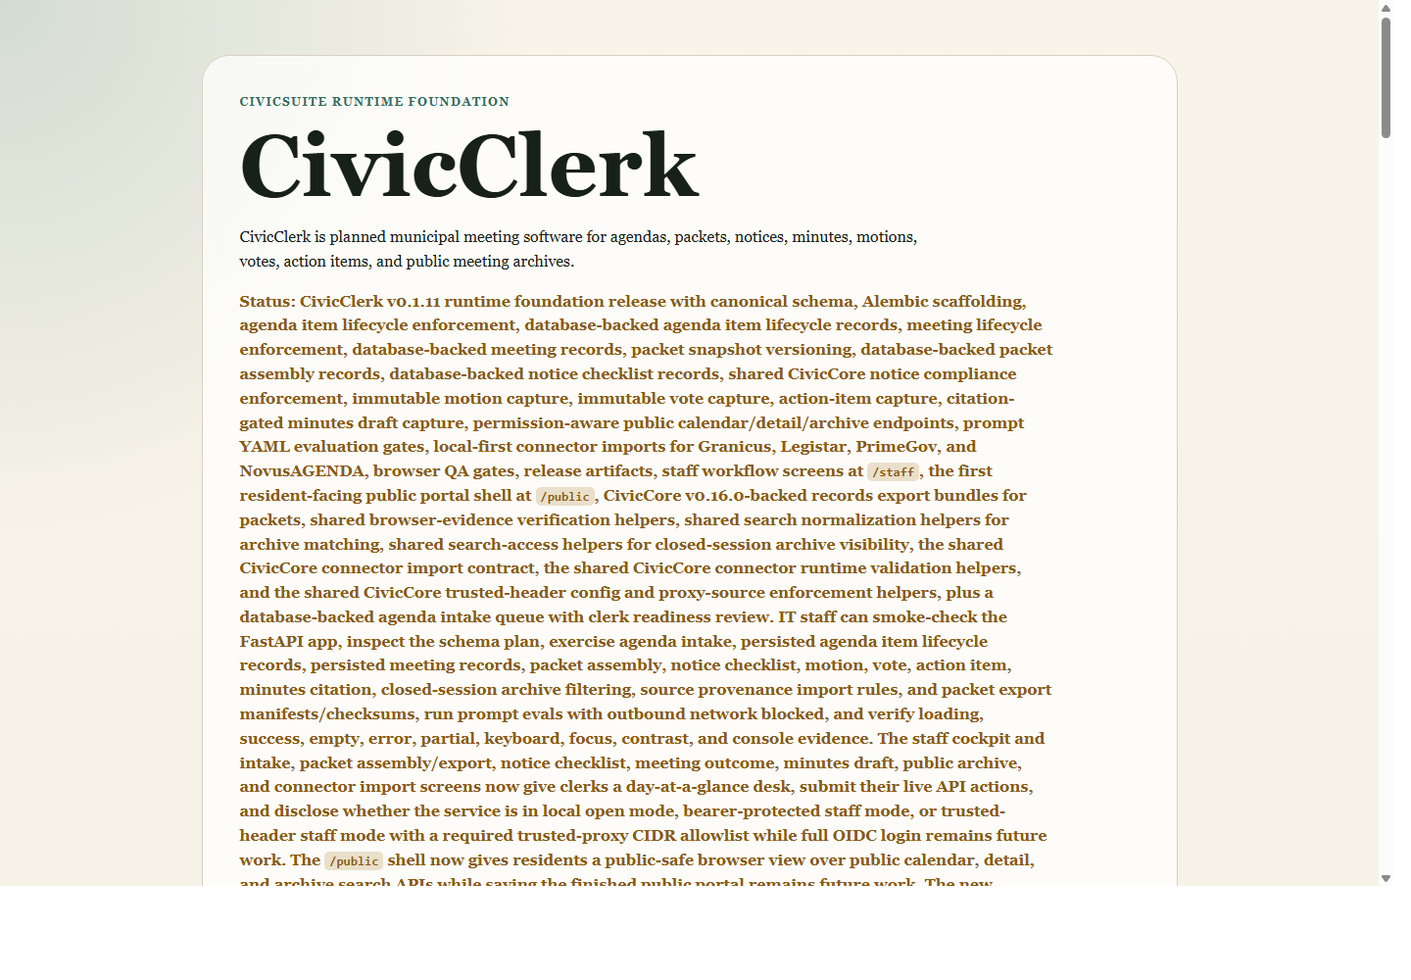
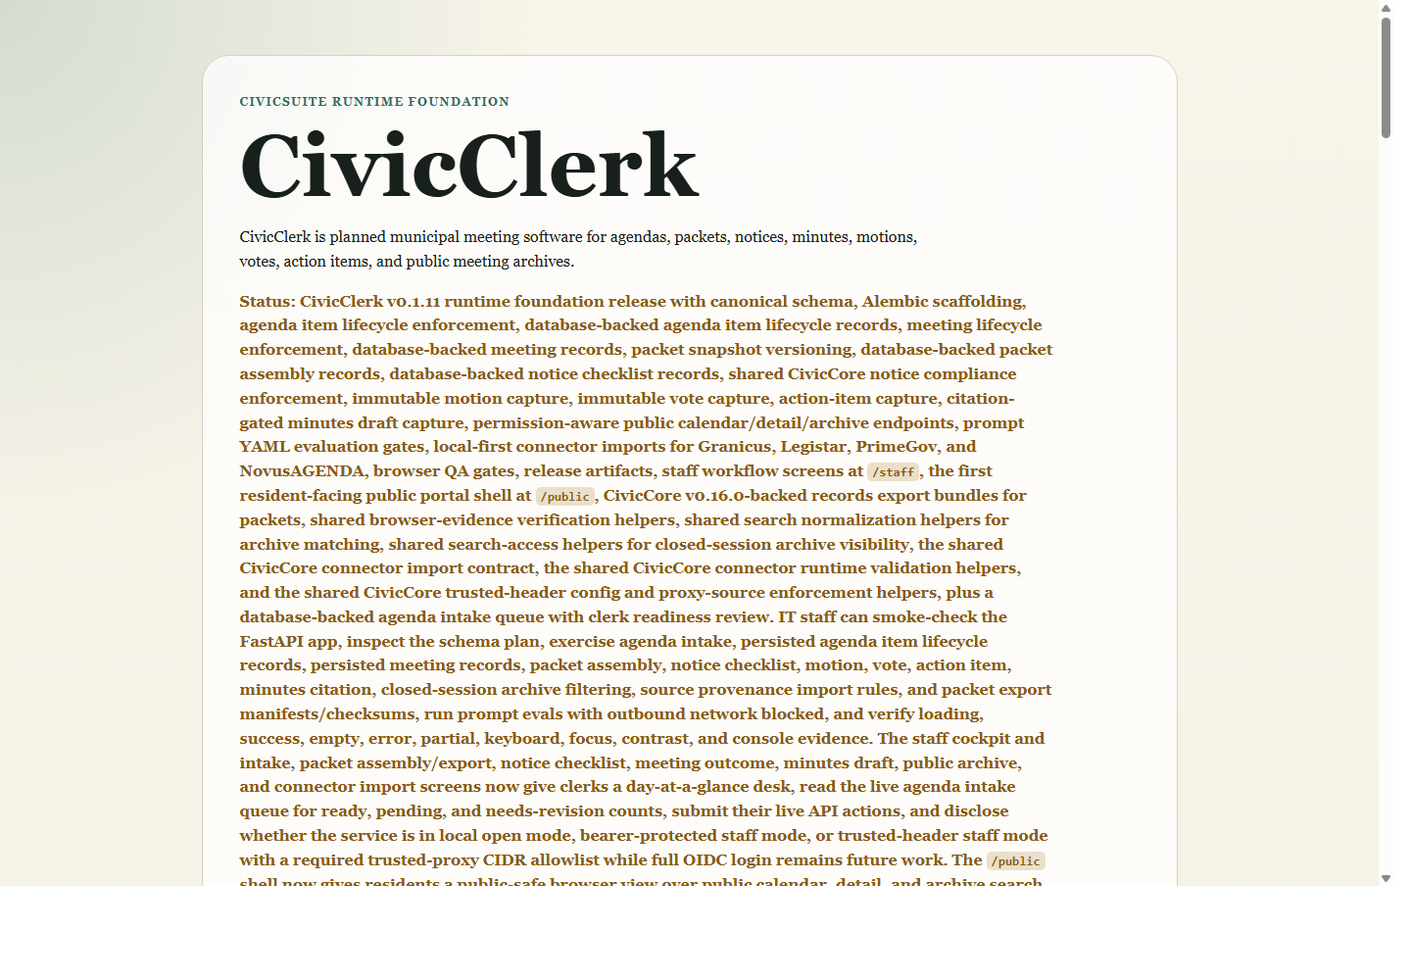
feat: wire staff cockpit to intake queue

Changed region(s): [[0.1562, 0.775, 0.75, 0.93]]

diff --git a/docs/index.html b/docs/index.html
@@ -51,13 +51,13 @@
       <div class="eyebrow">CivicSuite runtime foundation</div>
       <h1>CivicClerk</h1>
       <p>CivicClerk is planned municipal meeting software for agendas, packets, notices, minutes, motions, votes, action items, and public meeting archives.</p>
-<p class="status">Status: CivicClerk v0.1.11 runtime foundation release with canonical schema, Alembic scaffolding, agenda item lifecycle enforcement, database-backed agenda item lifecycle records, meeting lifecycle enforcement, database-backed meeting records, packet snapshot versioning, database-backed packet assembly records, database-backed notice checklist records, shared CivicCore notice compliance enforcement, immutable motion capture, immutable vote capture, action-item capture, citation-gated minutes draft capture, permission-aware public calendar/detail/archive endpoints, prompt YAML evaluation gates, local-first connector imports for Granicus, Legistar, PrimeGov, and NovusAGENDA, browser QA gates, release artifacts, staff workflow screens at <code>/staff</code>, the first resident-facing public portal shell at <code>/public</code>, CivicCore v0.16.0-backed records export bundles for packets, shared browser-evidence verification helpers, shared search normalization helpers for archive matching, shared search-access helpers for closed-session archive visibility, the shared CivicCore connector import contract, the shared CivicCore connector runtime validation helpers, and the shared CivicCore trusted-header config and proxy-source enforcement helpers, plus a database-backed agenda intake queue with clerk readiness review. IT staff can smoke-check the FastAPI app, inspect the schema plan, exercise agenda intake, persisted agenda item lifecycle records, persisted meeting records, packet assembly, notice checklist, motion, vote, action item, minutes citation, closed-session archive filtering, source provenance import rules, and packet export manifests/checksums, run prompt evals with outbound network blocked, and verify loading, success, empty, error, partial, keyboard, focus, contrast, and console evidence. The staff cockpit and intake, packet assembly/export, notice checklist, meeting outcome, minutes draft, public archive, and connector import screens now give clerks a day-at-a-glance desk, submit their live API actions, and disclose whether the service is in local open mode, bearer-protected staff mode, or trusted-header staff mode with a required trusted-proxy CIDR allowlist while full OIDC login remains future work. The <code>/public</code> shell now gives residents a public-safe browser view over public calendar, detail, and archive search APIs while saying the finished public portal remains future work. The new <code>/staff/auth-readiness</code> contract now tells operators whether the configured bearer-token or trusted-header bridge is merely present or actually deployment-ready before a live session check, returns a session probe plus a write probe for protected deployment smoke checks, and includes a loopback-only local proxy rehearsal contract for <code>scripts/local_trusted_header_proxy.py</code> with <code>127.0.0.1/32</code> as the safe starter allowlist.</p>
+<p class="status">Status: CivicClerk v0.1.11 runtime foundation release with canonical schema, Alembic scaffolding, agenda item lifecycle enforcement, database-backed agenda item lifecycle records, meeting lifecycle enforcement, database-backed meeting records, packet snapshot versioning, database-backed packet assembly records, database-backed notice checklist records, shared CivicCore notice compliance enforcement, immutable motion capture, immutable vote capture, action-item capture, citation-gated minutes draft capture, permission-aware public calendar/detail/archive endpoints, prompt YAML evaluation gates, local-first connector imports for Granicus, Legistar, PrimeGov, and NovusAGENDA, browser QA gates, release artifacts, staff workflow screens at <code>/staff</code>, the first resident-facing public portal shell at <code>/public</code>, CivicCore v0.16.0-backed records export bundles for packets, shared browser-evidence verification helpers, shared search normalization helpers for archive matching, shared search-access helpers for closed-session archive visibility, the shared CivicCore connector import contract, the shared CivicCore connector runtime validation helpers, and the shared CivicCore trusted-header config and proxy-source enforcement helpers, plus a database-backed agenda intake queue with clerk readiness review. IT staff can smoke-check the FastAPI app, inspect the schema plan, exercise agenda intake, persisted agenda item lifecycle records, persisted meeting records, packet assembly, notice checklist, motion, vote, action item, minutes citation, closed-session archive filtering, source provenance import rules, and packet export manifests/checksums, run prompt evals with outbound network blocked, and verify loading, success, empty, error, partial, keyboard, focus, contrast, and console evidence. The staff cockpit and intake, packet assembly/export, notice checklist, meeting outcome, minutes draft, public archive, and connector import screens now give clerks a day-at-a-glance desk, read the live agenda intake queue for ready, pending, and needs-revision counts, submit their live API actions, and disclose whether the service is in local open mode, bearer-protected staff mode, or trusted-header staff mode with a required trusted-proxy CIDR allowlist while full OIDC login remains future work. The <code>/public</code> shell now gives residents a public-safe browser view over public calendar, detail, and archive search APIs while saying the finished public portal remains future work. The new <code>/staff/auth-readiness</code> contract now tells operators whether the configured bearer-token or trusted-header bridge is merely present or actually deployment-ready before a live session check, returns a session probe plus a write probe for protected deployment smoke checks, and includes a loopback-only local proxy rehearsal contract for <code>scripts/local_trusted_header_proxy.py</code> with <code>127.0.0.1/32</code> as the safe starter allowlist.</p>
     </section>
 
     <section class="grid" aria-label="Product overview">
       <article class="card">
         <h2>For clerks</h2>
-        <p>Open a day-at-a-glance product cockpit at <code>/staff</code>, submit department agenda intake items into a database-backed queue, record clerk readiness review, persist agenda item lifecycle status and audit entries through the API, create persisted meeting records through the API, create and finalize packet assembly records with source files and citations, persist notice checklist and posting-proof records, capture motions/votes/action items from the staff screen, create citation-gated minutes drafts from the staff screen, publish public-safe archive records from the staff screen, normalize local connector exports from the staff screen, export records-ready packet bundles with provenance and audit evidence, and expose public archive records without leaking closed-session content.</p>
+        <p>Open a day-at-a-glance product cockpit at <code>/staff</code> that reads the live agenda intake queue, submit department agenda intake items into a database-backed queue, record clerk readiness review, persist agenda item lifecycle status and audit entries through the API, create persisted meeting records through the API, create and finalize packet assembly records with source files and citations, persist notice checklist and posting-proof records, capture motions/votes/action items from the staff screen, create citation-gated minutes drafts from the staff screen, publish public-safe archive records from the staff screen, normalize local connector exports from the staff screen, export records-ready packet bundles with provenance and audit evidence, and expose public archive records without leaking closed-session content.</p>
       </article>
       <article class="card">
         <h2>For IT</h2>

diff --git a/civicclerk/staff_ui.py b/civicclerk/staff_ui.py
@@ -2,6 +2,8 @@
 
 from __future__ import annotations
 
+from collections.abc import Mapping, Sequence
+
 from civicclerk import __version__
 
 SCREEN_CARDS = [
@@ -127,15 +129,47 @@ STATE_CARDS = [
     ("partial", "Partial", "Partial imports or checks should identify what succeeded, what did not, and what to retry."),
 ]
 
-COCKPIT_ITEMS = [
-    ("3", "Items ready for clerk review", "Agenda intake queue has one ready item, one needs-info item, and one partial item."),
-    ("7", "Live workflow actions", "Intake, packet, notice, outcomes, minutes, archive, and connector import actions are available."),
-    ("0", "Silent dead ends", "Every visible empty, warning, and error state names a fix path before staff retries."),
-    ("2", "Go-live checks", "Run protected deployment smoke and backup/restore rehearsal before trusting a real deployment."),
-]
+def build_staff_cockpit_items(
+    *,
+    agenda_intake_items: Sequence[object] = (),
+    agenda_intake_available: bool = True,
+) -> list[tuple[str, str, str]]:
+    """Build cockpit cards from live workflow data that is available today."""
+
+    if not agenda_intake_available:
+        ready_count = "!"
+        intake_copy = (
+            "Agenda intake queue is unavailable; check CIVICCLERK_AGENDA_INTAKE_DB_URL "
+            "and database reachability, then reload the staff desk."
+        )
+    elif agenda_intake_items:
+        ready_count = str(_count_readiness_status(agenda_intake_items, "READY"))
+        pending_count = _count_readiness_status(agenda_intake_items, "PENDING")
+        needs_revision_count = _count_readiness_status(agenda_intake_items, "NEEDS_REVISION")
+        intake_copy = (
+            "Live agenda intake queue reports "
+            f"{ready_count} ready, {pending_count} pending, and "
+            f"{needs_revision_count} needing revision."
+        )
+    else:
+        ready_count = "0"
+        intake_copy = "Live agenda intake queue is empty; submit a department item to start the clerk desk."
+    return [
+        (ready_count, "Items ready for clerk review", intake_copy),
+        (
+            str(len(SCREEN_CARDS)),
+            "Live workflow actions",
+            "Intake, packet, notice, outcomes, minutes, archive, and connector import actions are available.",
+        ),
+        ("0", "Silent dead ends", "Every visible empty, warning, and error state names a fix path before staff retries."),
+        ("2", "Go-live checks", "Run protected deployment smoke and backup/restore rehearsal before trusting a real deployment."),
+    ]
 
 
-def render_staff_dashboard() -> str:
+def render_staff_dashboard(
+    *,
+    cockpit_items: Sequence[tuple[str, str, str]] | None = None,
+) -> str:
     """Render the current staff workflow screens as dependency-free HTML."""
     nav_buttons = "\n".join(
         f"""
@@ -165,7 +199,7 @@ def render_staff_dashboard() -> str:
           <p>{copy}</p>
         </article>
         """
-        for value, label, copy in COCKPIT_ITEMS
+        for value, label, copy in (cockpit_items or build_staff_cockpit_items())
     )
     return f"""<!doctype html>
 <html lang="en">
@@ -859,6 +893,18 @@ def render_staff_dashboard() -> str:
   </script>
 </body>
 </html>"""
+
+
+def _count_readiness_status(items: Sequence[object], status: str) -> int:
+    return sum(1 for item in items if _readiness_status(item) == status)
+
+
+def _readiness_status(item: object) -> str | None:
+    if isinstance(item, Mapping):
+        value = item.get("readiness_status")
+    else:
+        value = getattr(item, "readiness_status", None)
+    return str(value) if value is not None else None
 
 
 def _render_screen_card(card: dict, active: bool) -> str:

diff --git a/tests/test_milestone_13_staff_workflow_ui.py b/tests/test_milestone_13_staff_workflow_ui.py
@@ -28,6 +28,7 @@ async def test_staff_ui_endpoint_renders_accessible_workflow_foundation() -> Non
     assert "Today's clerk desk" in html
     assert "This is the shift from foundation to product" in html
     assert "Items ready for clerk review" in html
+    assert "Live agenda intake queue is empty; submit a department item to start the clerk desk." in html
     assert "Live workflow actions" in html
     assert "Silent dead ends" in html
     assert "Go-live checks" in html
@@ -160,6 +161,55 @@ async def test_staff_ui_endpoint_renders_accessible_workflow_foundation() -> Non
         "NovusAGENDA",
     ]:
         assert api_path in html
+
+
+async def test_staff_product_cockpit_uses_live_agenda_intake_counts(monkeypatch, tmp_path) -> None:
+    monkeypatch.setenv("CIVICCLERK_AGENDA_INTAKE_DB_URL", f"sqlite:///{tmp_path / 'staff-cockpit.db'}")
+    async with AsyncClient(transport=ASGITransport(app=app), base_url="http://testserver") as client:
+        ready_item = await client.post(
+            "/agenda-intake",
+            json={
+                "title": "Approve paving contract",
+                "department_name": "Public Works",
+                "submitted_by": "pw@example.gov",
+                "summary": "Contract award for arterial paving.",
+                "source_references": [{"source_id": "staff-report", "title": "Staff report"}],
+            },
+        )
+        revision_item = await client.post(
+            "/agenda-intake",
+            json={
+                "title": "Adopt fee schedule",
+                "department_name": "Finance",
+                "submitted_by": "finance@example.gov",
+                "summary": "Annual fee schedule update.",
+                "source_references": [{"source_id": "fee-table", "title": "Fee table"}],
+            },
+        )
+        await client.post(
+            f"/agenda-intake/{ready_item.json()['id']}/review",
+            json={"reviewer": "clerk@example.gov", "ready": True, "notes": "Complete for packet."},
+        )
+        await client.post(
+            f"/agenda-intake/{revision_item.json()['id']}/review",
+            json={"reviewer": "clerk@example.gov", "ready": False, "notes": "Missing attachment."},
+        )
+        response = await client.get("/staff")
+
+    assert response.status_code == 200
+    assert "Live agenda intake queue reports 1 ready, 0 pending, and 1 needing revision." in response.text
+    assert "Items ready for clerk review" in response.text
+
+
+async def test_staff_product_cockpit_handles_unavailable_intake_store(monkeypatch) -> None:
+    monkeypatch.setenv("CIVICCLERK_AGENDA_INTAKE_DB_URL", "sqlite:///Z:/missing/civicclerk.db")
+    async with AsyncClient(transport=ASGITransport(app=app), base_url="http://testserver") as client:
+        response = await client.get("/staff")
+
+    assert response.status_code == 200
+    assert "Agenda intake queue is unavailable" in response.text
+    assert "check CIVICCLERK_AGENDA_INTAKE_DB_URL" in response.text
+    assert "reload the staff desk" in response.text
 
 
 async def test_favicon_is_public_and_empty() -> None:

diff --git a/civicclerk/main.py b/civicclerk/main.py
@@ -20,6 +20,7 @@ from fastapi import Depends, FastAPI, HTTPException, Request
 from fastapi.security import HTTPAuthorizationCredentials, HTTPBearer
 from fastapi.responses import HTMLResponse, JSONResponse, Response
 from pydantic import BaseModel, Field
+from sqlalchemy.exc import SQLAlchemyError
 
 from civicclerk import __version__
 from civicclerk.agenda_intake import AgendaIntakeRepository
@@ -39,7 +40,7 @@ from civicclerk.packet_notice import (
 )
 from civicclerk.public_archive import PublicArchiveStore, can_view_closed_sessions
 from civicclerk.public_ui import render_public_portal
-from civicclerk.staff_ui import render_staff_dashboard
+from civicclerk.staff_ui import build_staff_cockpit_items, render_staff_dashboard
 from civiccore import __version__ as CIVICCORE_VERSION
 
 app = FastAPI(
@@ -341,7 +342,14 @@ async def favicon() -> Response:
 @app.get("/staff", response_class=HTMLResponse)
 async def staff_dashboard() -> str:
     """Render the staff-facing workflow foundation."""
-    return render_staff_dashboard()
+    try:
+        intake_items = _get_agenda_intake_repository().list_queue()
+        cockpit_items = build_staff_cockpit_items(agenda_intake_items=intake_items)
+    except SQLAlchemyError:
+        cockpit_items = build_staff_cockpit_items(agenda_intake_available=False)
+    return render_staff_dashboard(
+        cockpit_items=cockpit_items,
+    )
 
 
 @app.get("/public", response_class=HTMLResponse)

diff --git a/README.md b/README.md
@@ -38,7 +38,7 @@ Shipped in this foundation:
 - FastAPI application import path at `civicclerk.main:app`
 - root endpoint that explains the current product state
 - `/health` endpoint for IT staff
-- `/staff` staff workflow screens with a product cockpit for agenda intake, packet assembly/export, notice checklist/posting-proof, meeting outcome, minutes draft, public archive, and connector import work
+- `/staff` staff workflow screens with a live agenda-intake product cockpit for agenda intake, packet assembly/export, notice checklist/posting-proof, meeting outcome, minutes draft, public archive, and connector import work
 - live `/staff` agenda intake submission and clerk readiness-review form actions backed by `/agenda-intake`
 - live `/staff` packet assembly create/finalize form actions backed by `/meetings/{id}/packet-assemblies`
 - live `/staff` packet export form actions backed by `/meetings/{id}/packet-snapshots` and `/meetings/{id}/export-bundle`
@@ -200,7 +200,7 @@ CivicClerk follows the CivicSuite pattern:
 
 The foundation is intentionally thin. Canonical schema, Alembic scaffolding, agenda item lifecycle enforcement, agenda item lifecycle persistence, meeting lifecycle enforcement, meeting records, packet snapshot versioning, packet assembly records, notice checklist records, shared notice compliance enforcement, immutable motion capture, immutable vote capture, action-item capture, citation-gated minutes draft capture, permission-aware public archive endpoints, prompt YAML/evaluation gates, local-first connector import normalization, browser QA gates, CivicClerk v0.1.11 release artifacts, and CivicCore v0.16.0 packet export, browser-evidence verification, connector runtime validation, and trusted-header config enforcement primitives are present. Minutes drafts require sentence-level citations, YAML prompt-version provenance, and human approval before acceptance, and they are never auto-adopted or auto-posted. Anonymous public archive endpoints do not reveal closed-session content in response bodies, counts, suggestions, or error messages. Connector imports record source provenance and do not require outbound network calls in the default local profile. Public packet exports block closed-session/restricted sources and include manifest, checksum, provenance, and audit evidence. Agenda item records now persist lifecycle status and audit entries when `CIVICCLERK_AGENDA_ITEM_DB_URL` is configured. Meeting records now persist scheduled starts, normalized meeting type, lifecycle status, and audit entries when `CIVICCLERK_MEETING_DB_URL` is configured. Packet assembly records now persist source references, citations, linked packet snapshot ids, and durable audit hashes. Notice checklist records persist compliance outcomes, warnings, posting proof, and durable audit hashes. Browser QA now checks loading, success, empty, error, and partial states plus keyboard, focus, contrast, and console evidence, and release screenshots are bound to the current docs page through shared CivicCore verification helpers. CivicClerk v0.1.11 now pairs with the published `civiccore` v0.16.0 release wheel. The first staff auth foundation is now explicit: local rehearsals can stay in `CIVICCLERK_STAFF_AUTH_MODE=open`, bearer-protected deployments can set `CIVICCLERK_STAFF_AUTH_MODE=bearer` plus `CIVICCLERK_STAFF_AUTH_TOKEN_ROLES`, and trusted reverse-proxy deployments can set `CIVICCLERK_STAFF_AUTH_MODE=trusted_header` plus `CIVICCLERK_STAFF_SSO_PRINCIPAL_HEADER`, `CIVICCLERK_STAFF_SSO_ROLES_HEADER`, `CIVICCLERK_STAFF_SSO_PROVIDER`, and `CIVICCLERK_STAFF_SSO_TRUSTED_PROXIES` until full OIDC login lands. The `/staff/auth-readiness` endpoint now tells operators whether those bearer or trusted-proxy settings are merely present or actually deployment-ready, and it includes a loopback-only rehearsal recipe so trusted-header testing does not require inventing a custom proxy first.
 
-The staff experience at `/staff` now includes a product cockpit plus first workflow screens for agenda intake, packet assembly/export, notice checklist/posting-proof, meeting outcome, minutes draft, public archive, and connector import work. It is intentionally honest: the cockpit gives clerks a day-at-a-glance desk, the seven workflow screens can submit their corresponding live API actions, the auth panel now renders concrete protected-session and protected-write probes from `/staff/auth-readiness` when bearer or trusted-header mode is ready, it surfaces the loopback-only local proxy rehearsal command and env vars when trusted-header mode is being staged, and the broader multi-role React clerk console remains future work. The resident-facing `/public` shell now gives the same honesty on the public side: it loads public calendar records, public-safe detail, and anonymous archive search from the live public APIs, shows actionable loading/empty/error states, and says the finished public portal is still future work.
+The staff experience at `/staff` now includes a product cockpit plus first workflow screens for agenda intake, packet assembly/export, notice checklist/posting-proof, meeting outcome, minutes draft, public archive, and connector import work. It is intentionally honest: the cockpit gives clerks a day-at-a-glance desk, reads the live agenda intake queue for ready/pending/needs-revision counts, the seven workflow screens can submit their corresponding live API actions, the auth panel now renders concrete protected-session and protected-write probes from `/staff/auth-readiness` when bearer or trusted-header mode is ready, it surfaces the loopback-only local proxy rehearsal command and env vars when trusted-header mode is being staged, and the broader multi-role React clerk console remains future work. The resident-facing `/public` shell now gives the same honesty on the public side: it loads public calendar records, public-safe detail, and anonymous archive search from the live public APIs, shows actionable loading/empty/error states, and says the finished public portal is still future work.
 
 For the first real trusted-header deployment handoff, `docs/examples/trusted-header-nginx.conf` now ships a reference nginx bridge that strips client-supplied identity headers, sets proxy-owned staff headers, and points operators back to `CIVICCLERK_STAFF_SSO_TRUSTED_PROXIES` plus the `/staff/auth-readiness` contract before live staff traffic is trusted.
 

diff --git a/docs/screenshots/milestone13-staff-ui-summary.md b/docs/screenshots/milestone13-staff-ui-summary.md
@@ -4,6 +4,7 @@
 - Screenshot render source: the same `civicclerk.staff_ui.render_staff_dashboard()` HTML saved as a local browser fixture for deterministic desktop/mobile capture
 - Auth mode checked: `open` readiness shell with trusted-header deployment guidance rendered
 - Product cockpit checked: `Product cockpit`, `Today's clerk desk`, `Items ready for clerk review`, `Live workflow actions`, `Silent dead ends`, `Go-live checks`, and the `1. Intake` / `2. Build` / `3. Publish` lane render before the workflow forms
+- Live cockpit count checked: `/staff` reads the agenda intake queue and renders `Live agenda intake queue is empty; submit a department item to start the clerk desk.` when no intake records exist
 - Desktop evidence: `docs/screenshots/milestone13-staff-ui-desktop.png`
 - Mobile evidence: `docs/screenshots/milestone13-staff-ui-mobile.png`
 - Console: 0 messages expected from the shipped auth panel flow and no browser gate failures in `python scripts/verify-browser-qa.py`

diff --git a/USER-MANUAL.md b/USER-MANUAL.md
@@ -57,7 +57,8 @@ The `/staff` page now provides a product cockpit plus first staff workflow
 screens for agenda intake, packet assembly/export, notice
 checklist/posting-proof, meeting outcome, minutes draft, public archive, and
 connector import work. The cockpit gives clerks a day-at-a-glance desk before
-they drill into individual forms. The workflow forms can submit
+they drill into individual forms, and it reads the live agenda intake queue for
+ready, pending, and needs-revision counts. The workflow forms can submit
 intake items, record readiness review, create/finalize packet assembly records,
 create records-ready packet export bundles, persist notice checklist records, attach posting proof, capture
 motions/votes/action items, create citation-gated minutes drafts, publish

diff --git a/CHANGELOG.md b/CHANGELOG.md
@@ -8,6 +8,8 @@ All notable changes to CivicClerk are documented here.
 - `/staff` now opens with a product cockpit that summarizes the clerk desk,
   visible workflow actions, no-dead-end state promise, and go-live checks before
   staff drill into the live API workflow forms.
+- The `/staff` product cockpit now reads the live agenda intake queue and
+  reports ready, pending, and needs-revision counts when intake records exist.
 - `scripts/check_connector_sync_readiness.py` now verifies the supported
   Granicus, Legistar, PrimeGov, and NovusAGENDA local payload contracts without
   outbound network calls before future scheduled live-sync work.
